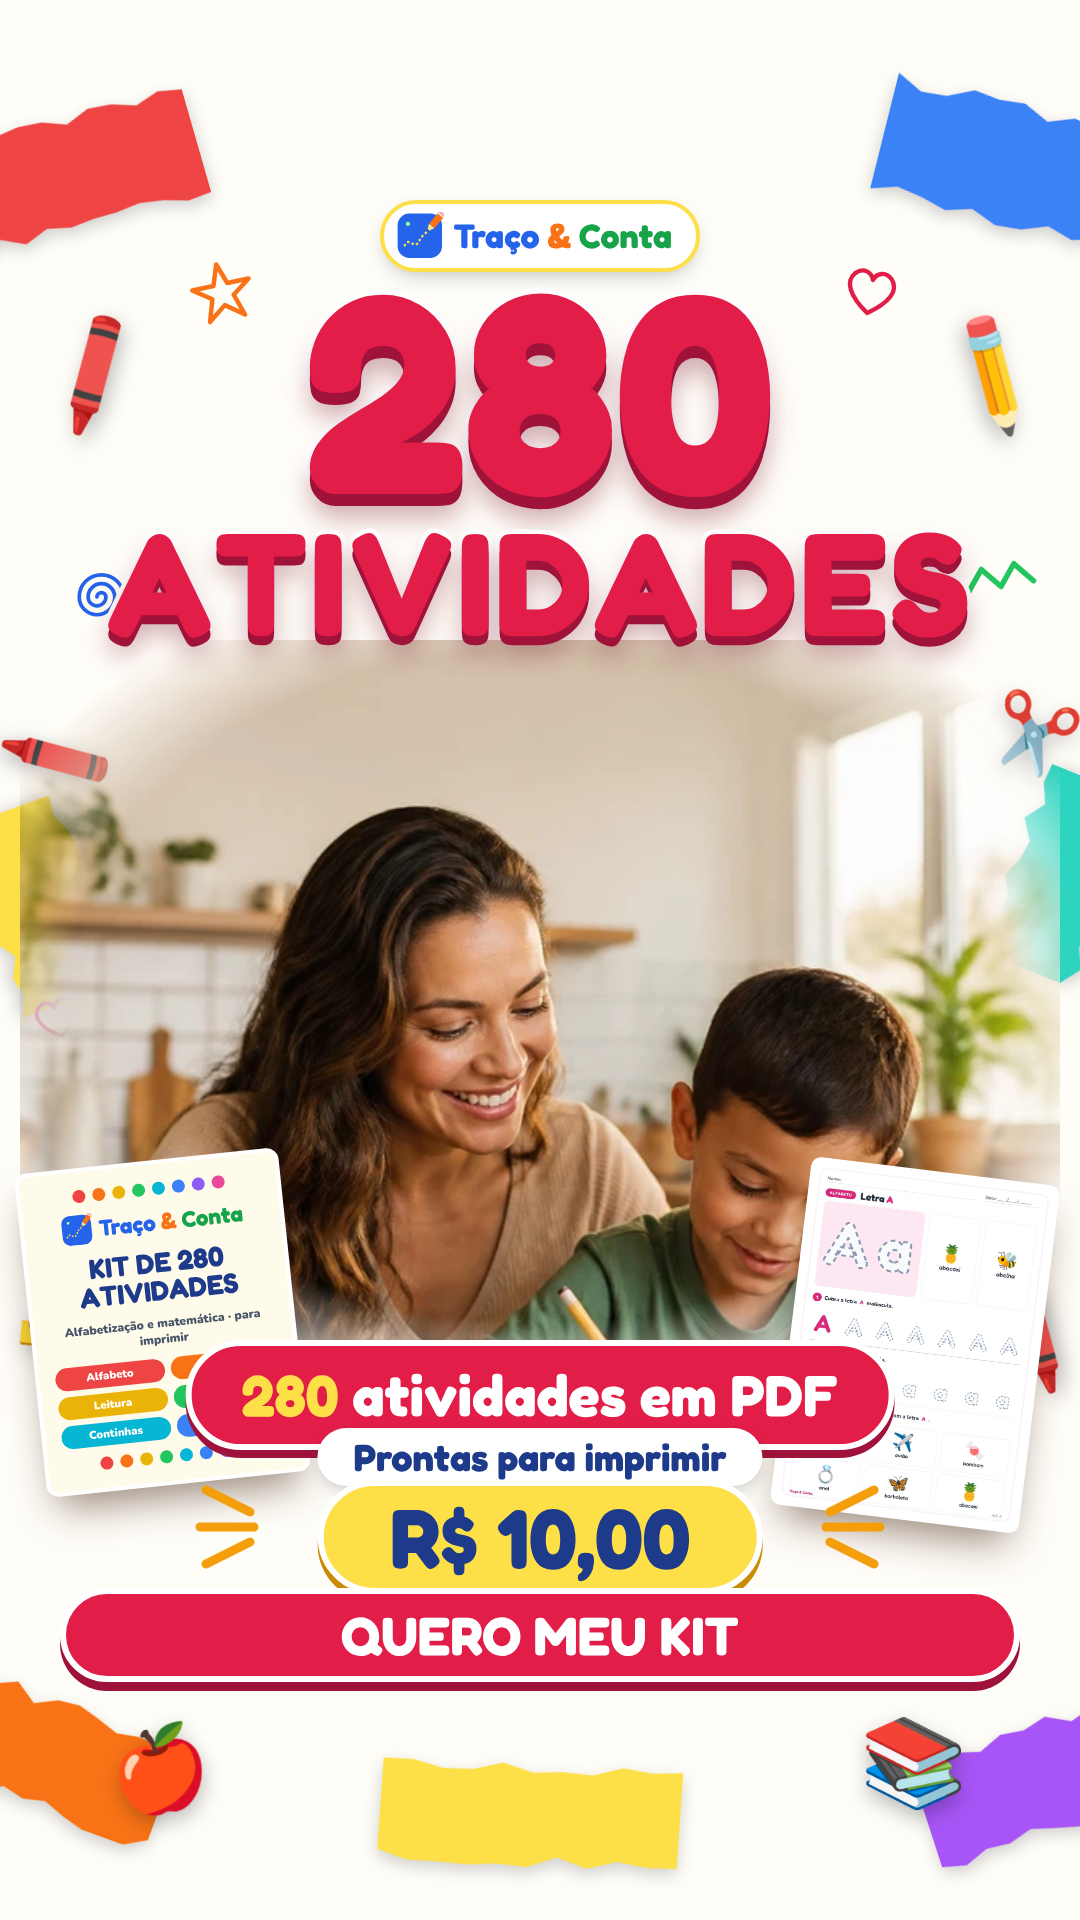
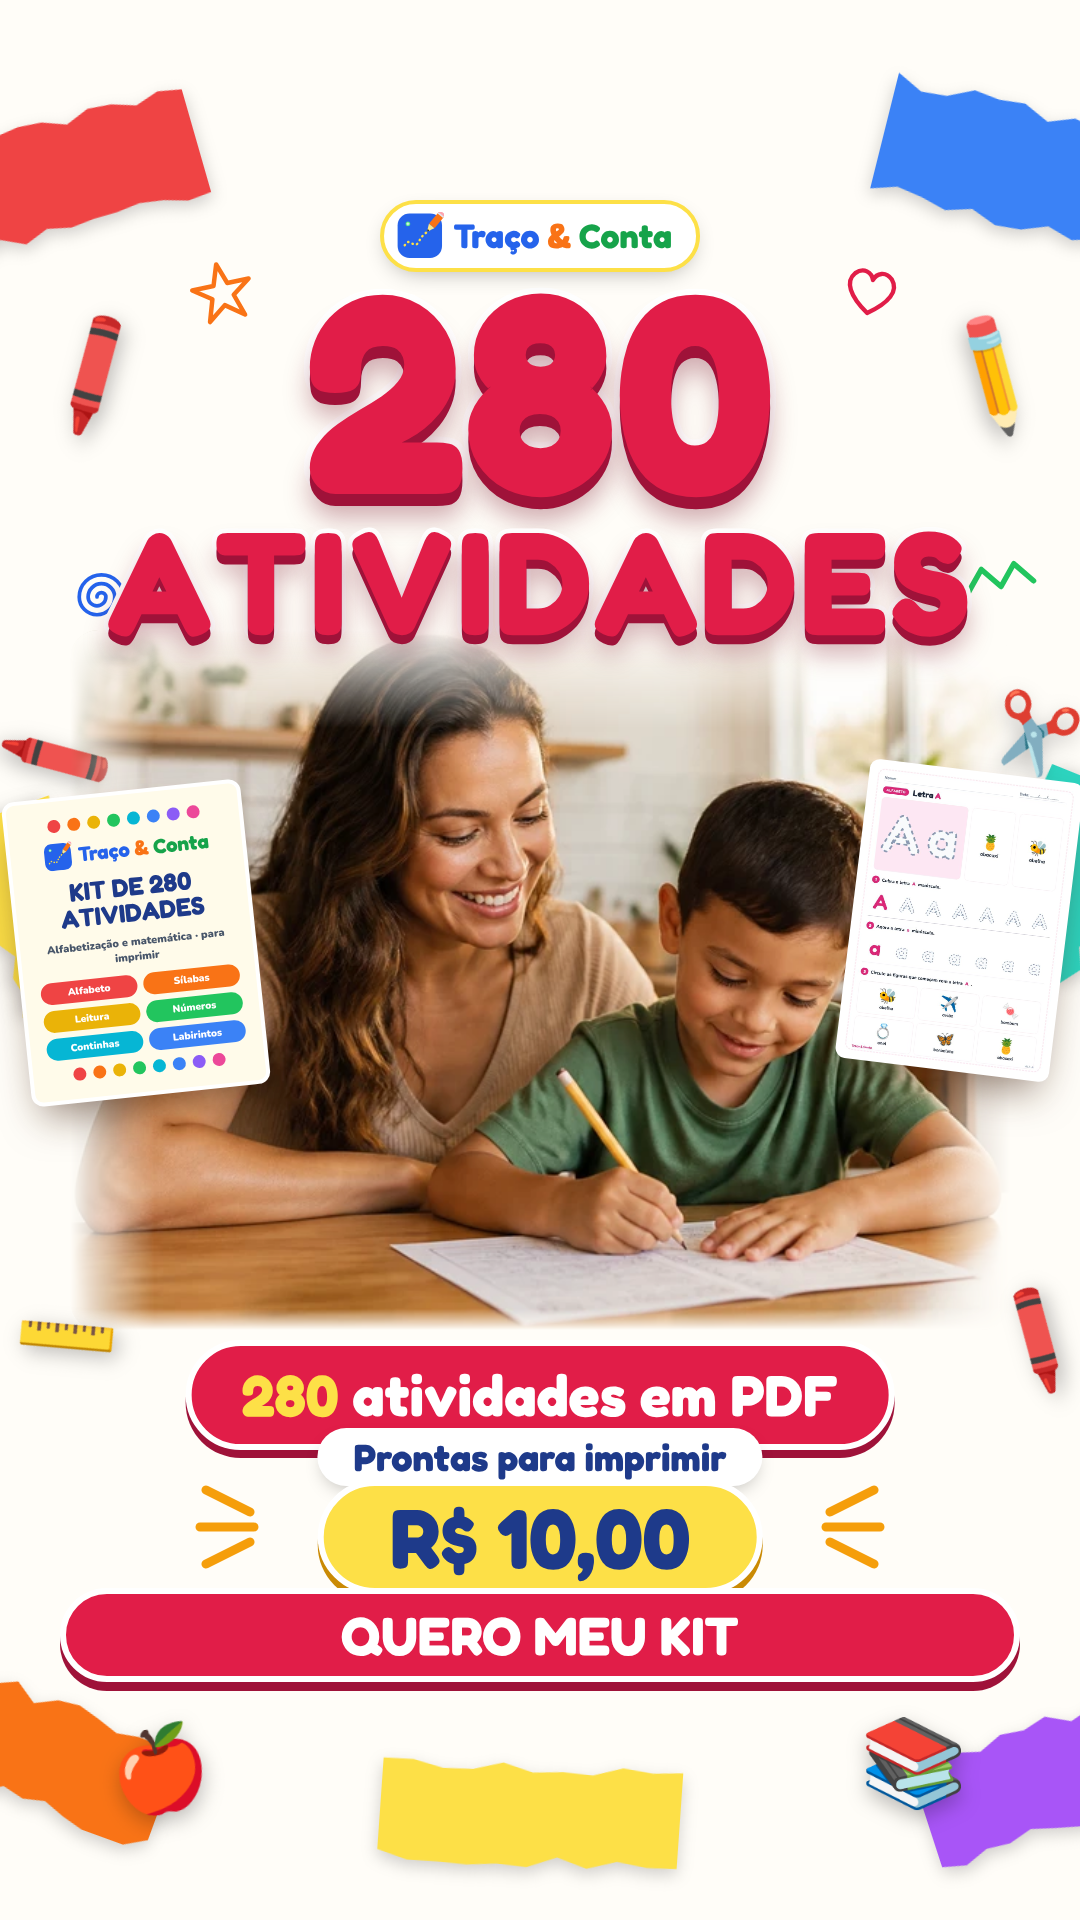
Traço & Conta: v5 com 10 ângulos, cores por ângulo e a cena da mesa visível
Claude-Session: https://claude.ai/code/session_01QUPmy4559k1P1jv6SUgj8s

Changed region(s): [[0.0, 0.3125, 1.0, 0.8125]]

diff --git a/produtos/traco-e-conta/LANCAMENTO.md b/produtos/traco-e-conta/LANCAMENTO.md
@@ -132,3 +132,18 @@ Envie os dois formatos no mesmo anúncio ("Personalizar posicionamentos"). **Lin
 | G · +5 bônus | Kit Completo | As 280 atividades e mais 5 apostilas bônus: inglês ilustrado, dinheirinho, horas, sondagem de escrita e material de parede. R$ 17,90. |
 
 Título sugerido para todos: **280 atividades para imprimir por R$ 10** (G: **280 atividades + 5 bônus por R$ 17,90**).
+
+## Criativos v5 (estilo infantil colorido) — `marketing/meta-ads/traco-e-conta/png-v5/`
+
+| Criativo | Título | Ângulo | Texto principal sugerido |
+|---|---|---|---|
+| V1 | 280 ATIVIDADES | Volume | 280 atividades de alfabetização e matemática em PDF, prontas para imprimir. Para crianças de 4 a 8 anos, com gabarito. R$ 10. |
+| V2 | 280 ATIVIDADES | Alfabetização | Letras, sílabas e leitura, e também matemática. Atividades curtas e coloridas para fazer em casa. R$ 10. |
+| V3 | 280 KIT COMPLETO | Kit Completo | As 280 atividades e mais 5 apostilas bônus: inglês, dinheirinho, horas e material de parede. R$ 17,90. |
+| V4 | MENOS TELA | Tempo juntos | Mais lápis, mais tempo juntos. 280 atividades para fazer em casa, do traçado às continhas. R$ 10. |
+| V5 | REFORÇO ESCOLAR | Reforço | O que a escola ensina, praticado em casa no ritmo da criança. 280 atividades organizadas por tema. |
+| V6 | IMPRIMA HOJE MESMO | Conveniência | O acesso chega no seu e-mail logo após o pagamento: é só baixar, imprimir e usar. R$ 10. |
+| V7 | R$ 10 · 280 ATIVIDADES | Preço | 280 atividades por R$ 10, menos de 4 centavos por atividade. Pagamento único, sem mensalidade. |
+| V8 | 1, 2, 3 · VAMOS CONTAR | Matemática | Números, continhas e sequências com figuras e cores, com gabarito para corrigir rápido. R$ 10. |
+| V9 | A B C · DO A AO Z | Alfabeto | Do traçado das letras às primeiras leituras: alfabeto, sílabas, ortografia e textos curtos. R$ 10. |
+| V10 | +5 BÔNUS · PARA O ANO TODO | Kit Completo | 280 atividades + 5 apostilas bônus para aprender o ano todo. R$ 17,90. |
